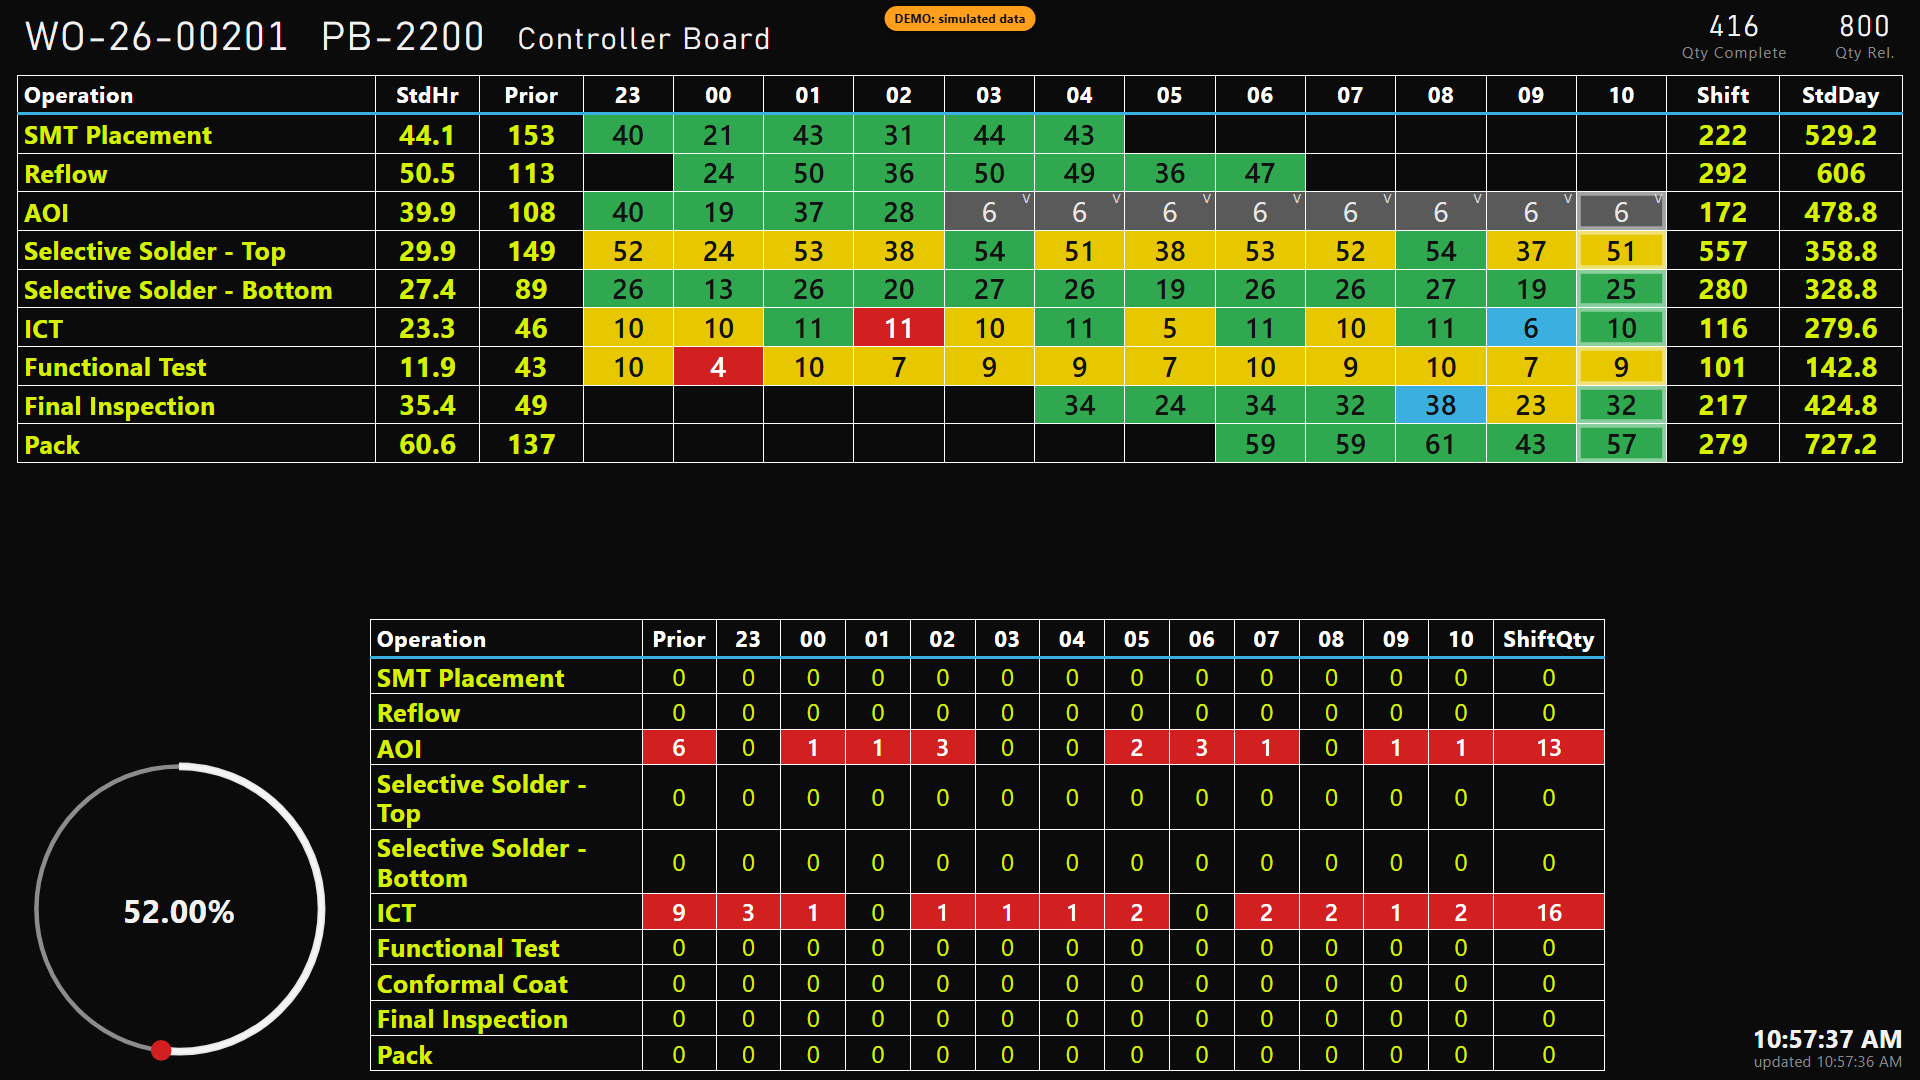
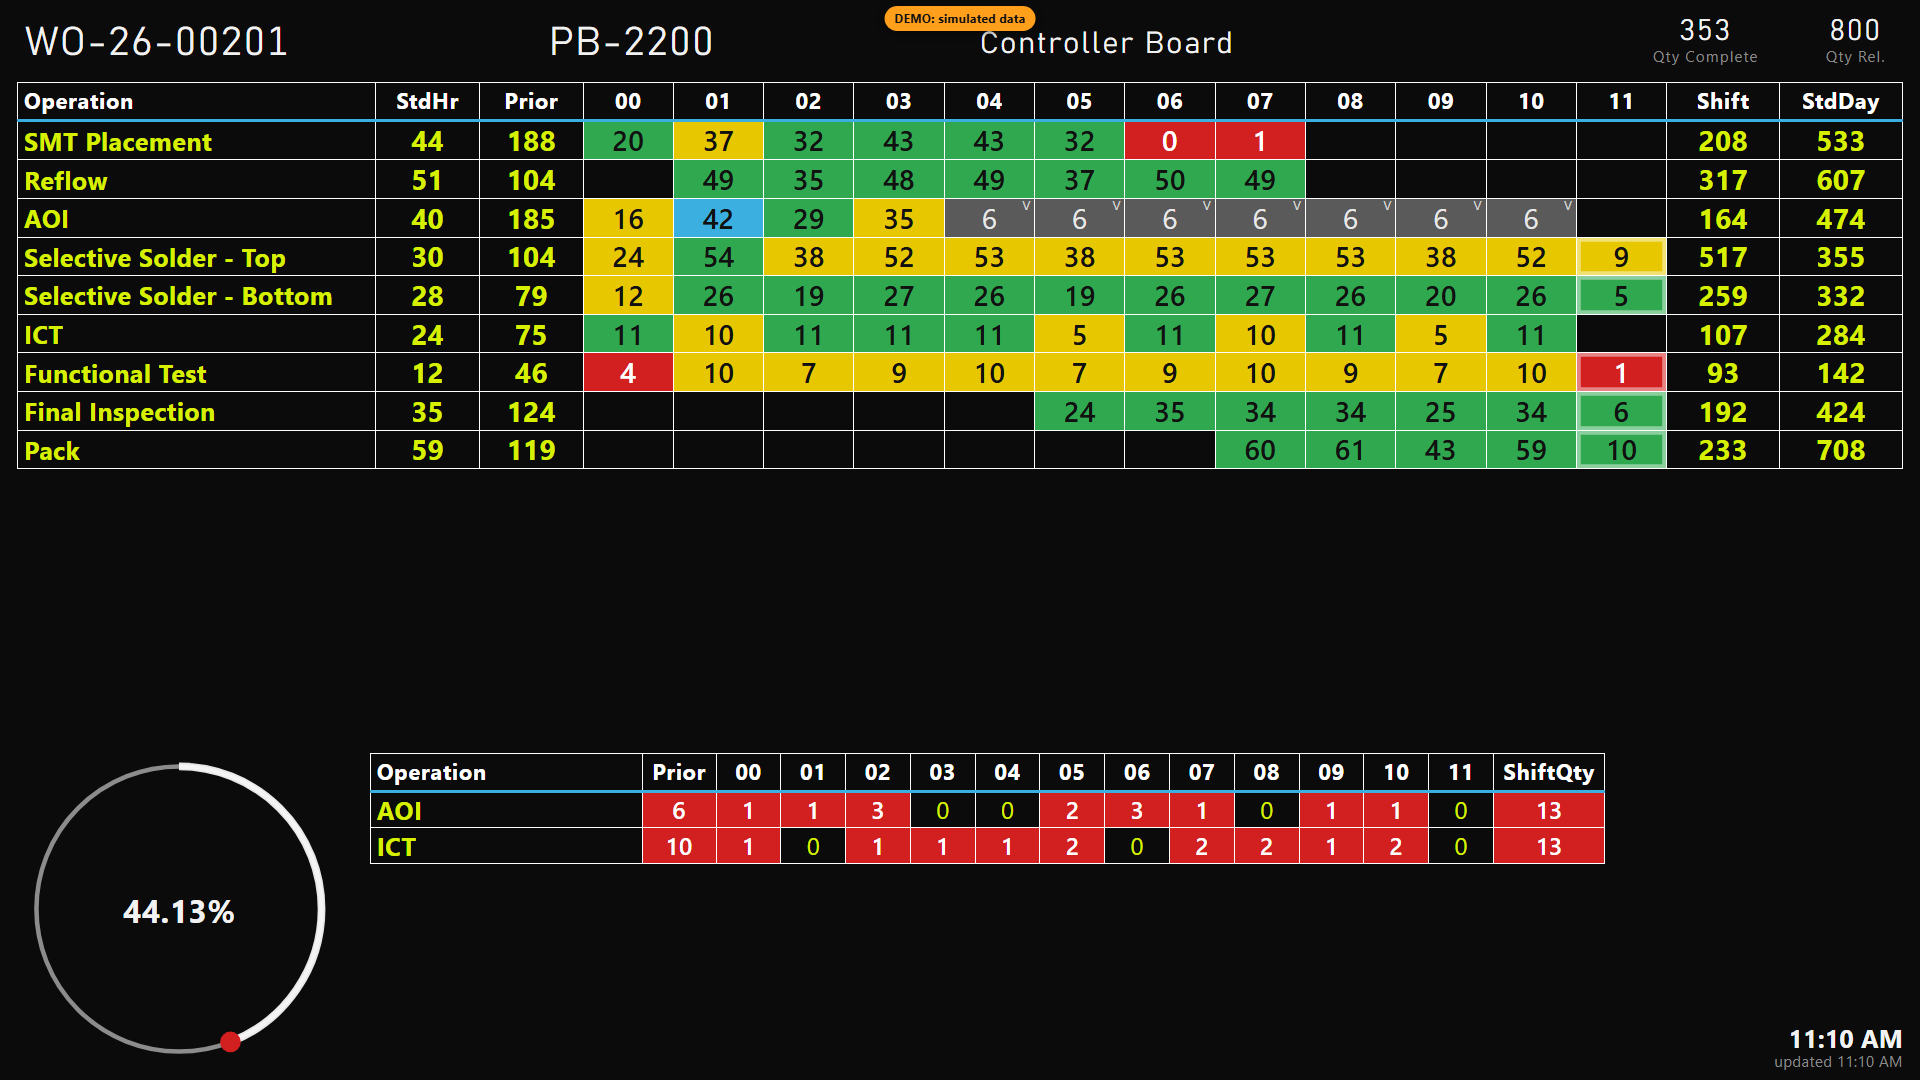
TV: whole-number StdHr/StdDay, clock without seconds, defect table limited to steps with defects, spaced header

diff --git a/apps/web/src/pages/tv/TvDashboard.tsx b/apps/web/src/pages/tv/TvDashboard.tsx
@@ -163,7 +163,13 @@ function HourCell({ cell }: { cell: TvCell | undefined }) {
   );
 }
 
-function DefectTable({ rows, columns }: { rows: TvDefectRow[]; columns: WindowColumn[] }) {
+/** A defect row is shown only when the step actually has defects (before or inside the window). */
+function hasDefects(row: TvDefectRow): boolean {
+  return row.prior > 0 || row.shift_qty > 0 || row.cells.some((c) => c > 0);
+}
+
+function DefectTable({ rows: allRows, columns }: { rows: TvDefectRow[]; columns: WindowColumn[] }) {
+  const rows = allRows.filter(hasDefects);
   return (
     <table className="tv-table tv-defect-table">
       <colgroup>
@@ -185,6 +191,13 @@ function DefectTable({ rows, columns }: { rows: TvDefectRow[]; columns: WindowCo
         </tr>
       </thead>
       <tbody>
+        {rows.length === 0 && (
+          <tr className="tv-row">
+            <td className="t-left tv-op tv-defect-empty" colSpan={columns.length + 3}>
+              No defects
+            </td>
+          </tr>
+        )}
         {rows.map((row) => (
           <tr key={`${row.operation_seq}|${row.operation}`} className="tv-row">
             <td className="t-left tv-op">{row.operation}</td>

diff --git a/apps/web/src/pages/tv/tvLogic.ts b/apps/web/src/pages/tv/tvLogic.ts
@@ -73,10 +73,10 @@ export function cellText(color: CellColor, units: number): string {
   return String(units);
 }
 
-/** StdHr / StdDay display: an em dash when the standard is unavailable (spec 15 scenario 11). */
+/** StdHr / StdDay display: rounded to the nearest whole number; an em dash when unavailable (spec 15 scenario 11). */
 export function formatStd(v: number | null | undefined): string {
   if (v == null || !Number.isFinite(v)) return '—';
-  return String(Math.round(v * 100) / 100);
+  return String(Math.round(v));
 }
 
 /** Ring gauge label, matching the old dashboard's "0.00%" (spec 8.3). */

diff --git a/apps/web/src/pages/tv/tv.css b/apps/web/src/pages/tv/tv.css
@@ -580,3 +580,24 @@
 .tv-root .tv-gauge-track {
   stroke: #8c8c8c;
 }
+
+/* header laid out like the legacy screen: job at the left, product number about a quarter in,
+   product name past the middle, quantities at the right */
+.tv-root .tv-header {
+  display: grid;
+  grid-template-columns: 27% 22% minmax(0, 1fr) auto;
+  align-items: end;
+  gap: 0 1vw;
+  padding-top: 0.8vh;
+  padding-bottom: 1vh;
+}
+
+.tv-root .tv-head-qtys {
+  gap: 3.5vw;
+  padding-right: 0.5vw;
+}
+
+.tv-table td.tv-defect-empty {
+  color: #8a8a8a;
+  font-weight: 400;
+}

diff --git a/apps/web/src/pages/tv/TvClock.tsx b/apps/web/src/pages/tv/TvClock.tsx
@@ -12,8 +12,8 @@ export function TvClock({ tz, updatedAt }: { tz: string; updatedAt: number | nul
 
   return (
     <div className="tv-clock">
-      <div className="tv-clock-time">{formatTime(now, tz, true)}</div>
-      <div className="tv-clock-updated">updated {updatedAt == null ? '—' : formatTime(updatedAt, tz, true)}</div>
+      <div className="tv-clock-time">{formatTime(now, tz)}</div>
+      <div className="tv-clock-updated">updated {updatedAt == null ? '—' : formatTime(updatedAt, tz)}</div>
     </div>
   );
 }

diff --git a/apps/web/src/pages/tv/tvLogic.test.ts b/apps/web/src/pages/tv/tvLogic.test.ts
@@ -134,7 +134,8 @@ describe('cell mapping', () => {
   it('formats standards and progress', () => {
     expect(formatStd(null)).toBe('—');
     expect(formatStd(30)).toBe('30');
-    expect(formatStd(28.456)).toBe('28.46');
+    expect(formatStd(28.456)).toBe('28');
+    expect(formatStd(28.5)).toBe('29');
     expect(formatProgressPct(0)).toBe('0.00%');
     expect(formatProgressPct(0.1234)).toBe('12.34%');
     expect(formatProgressPct(null)).toBe('0.00%');
